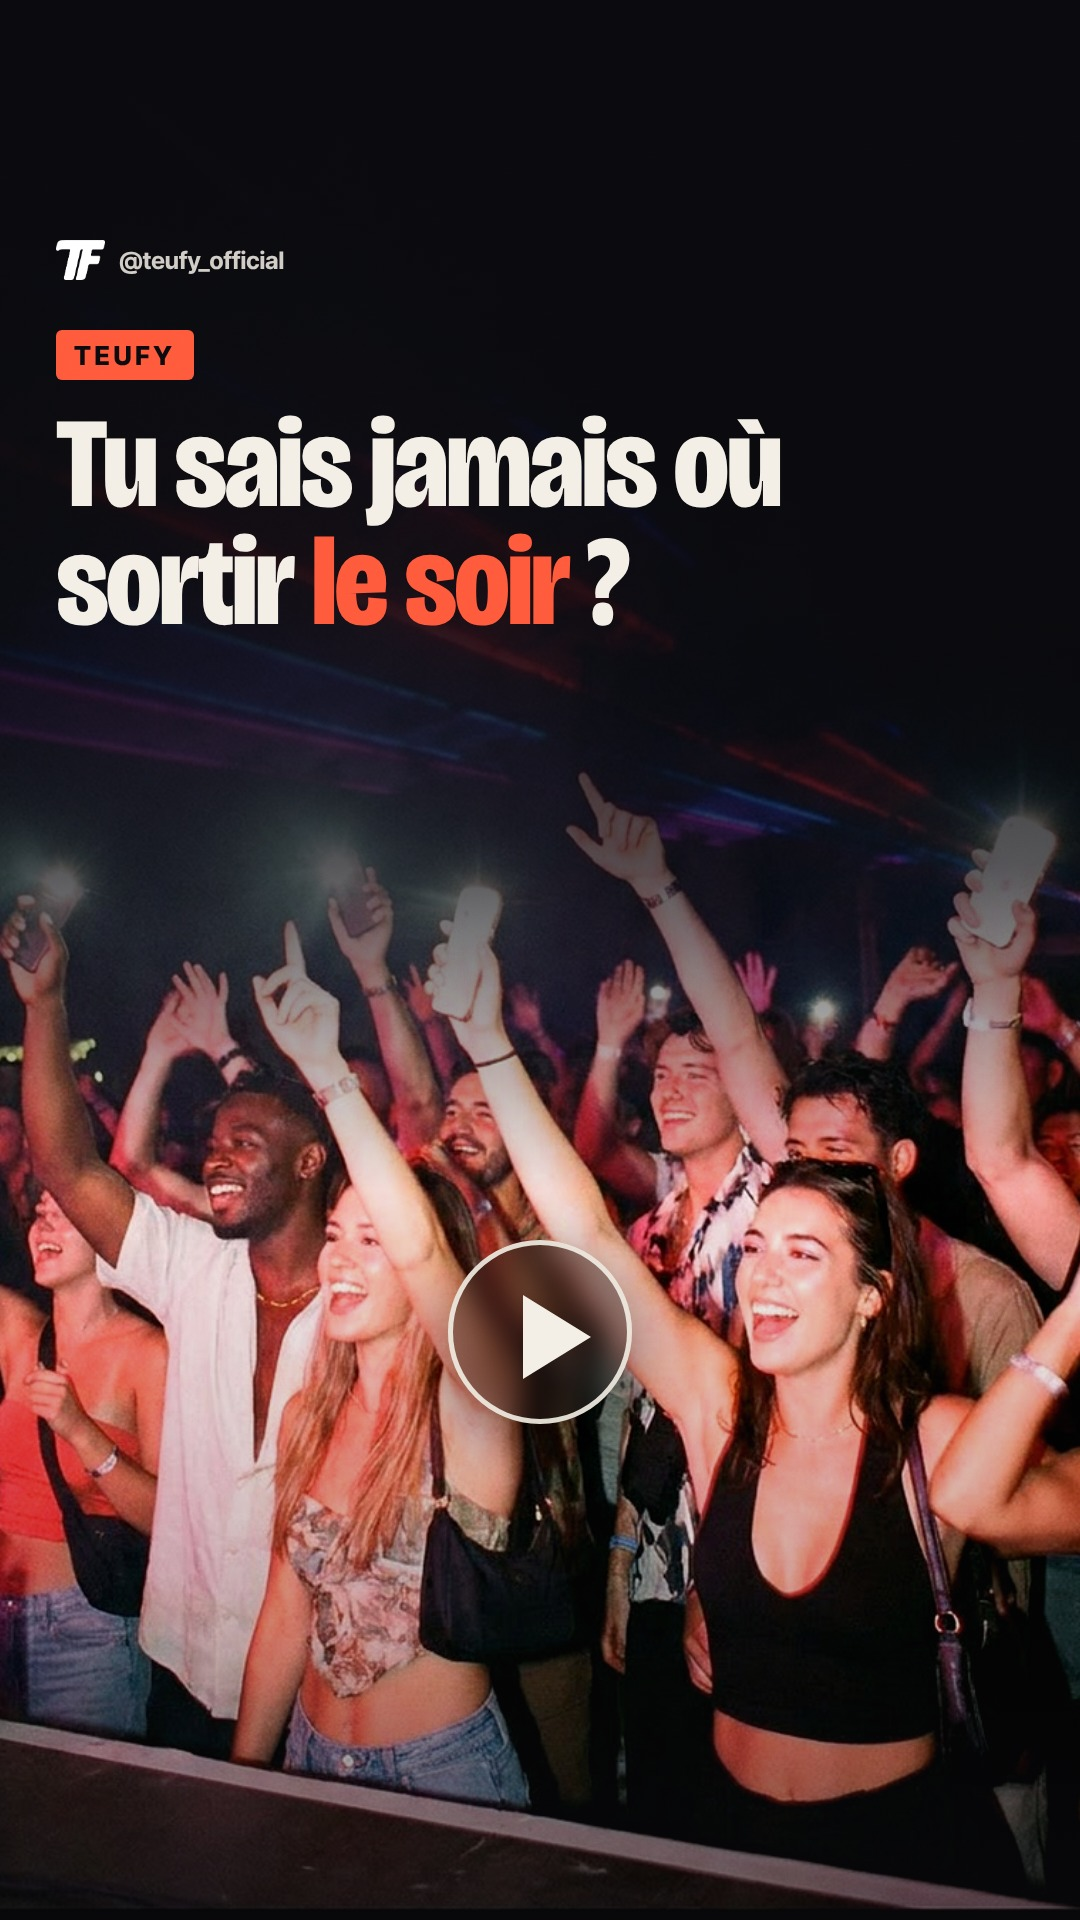
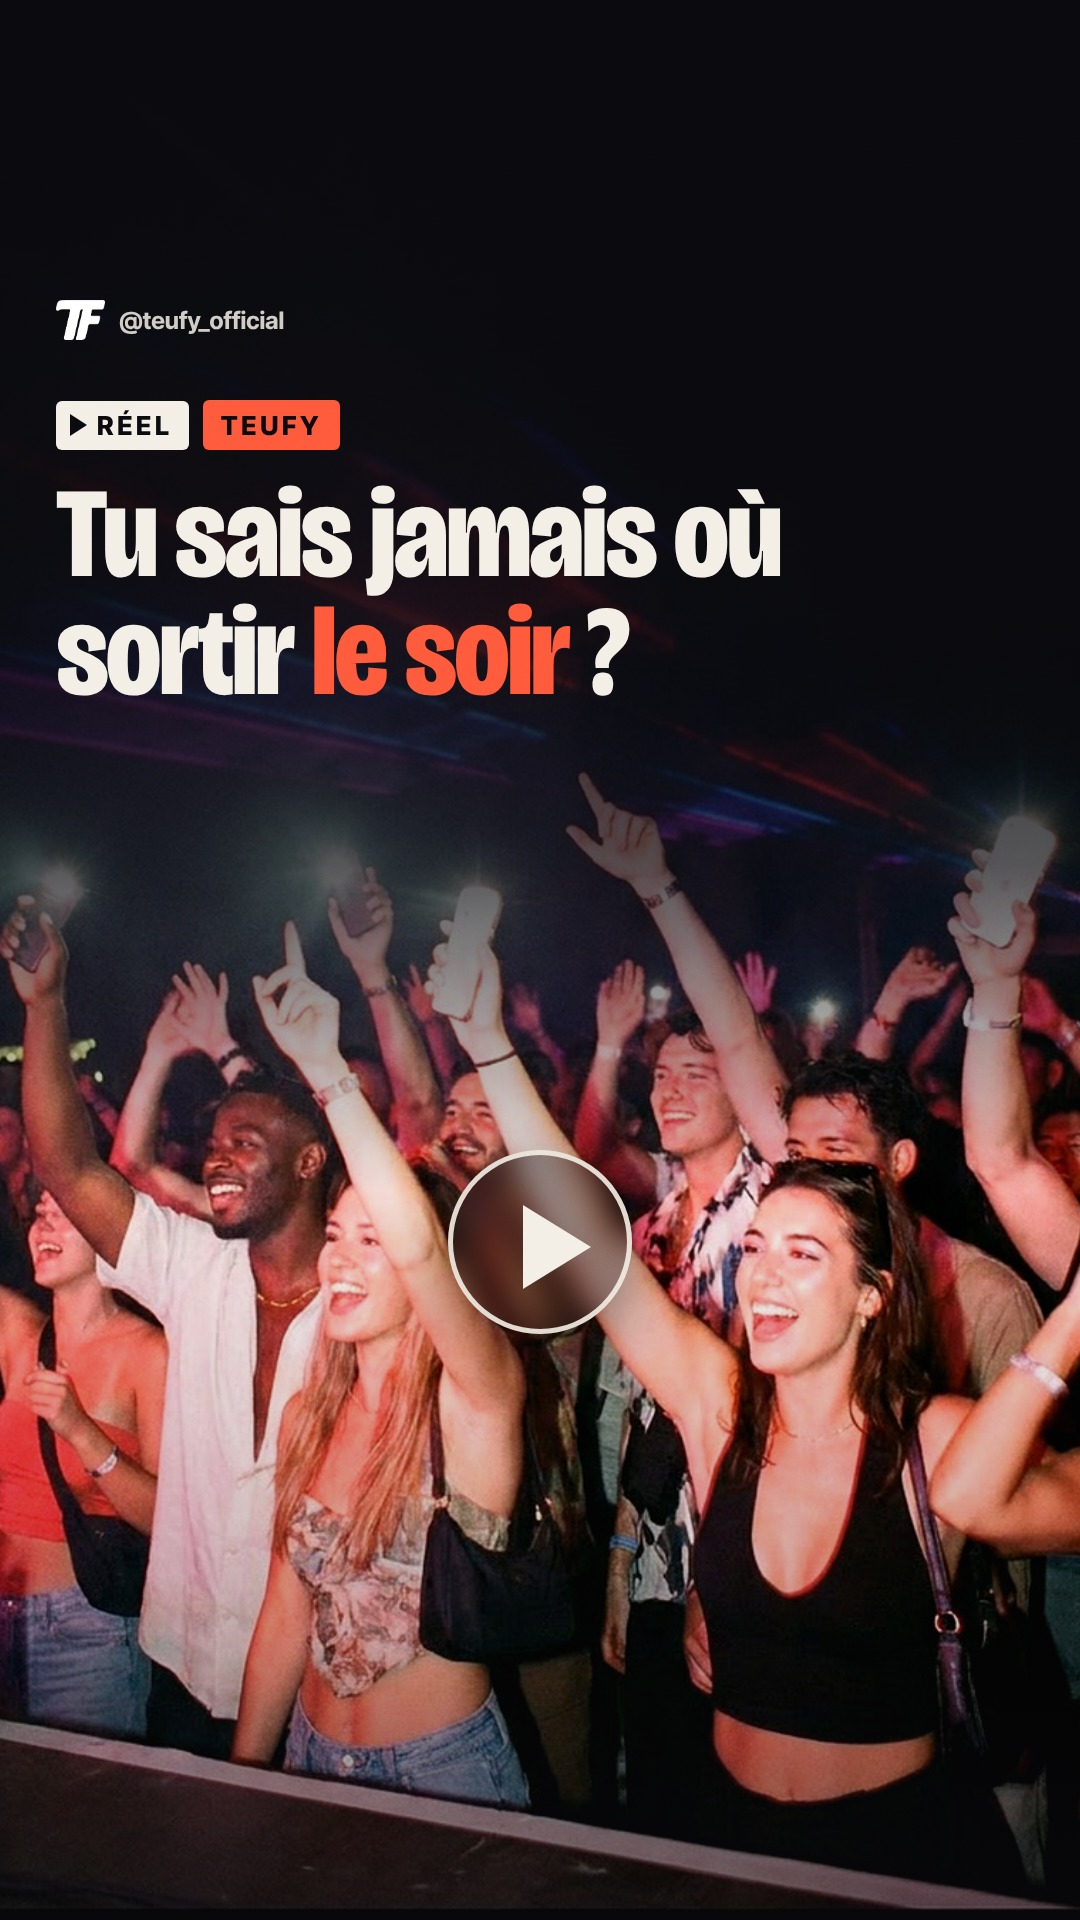
Version 1.14.01 : page Nouveautés (lien dans le menu avec pastille Nouveau, bandeau quand une version sort, cartes par version) ; couvertures adaptées à la grille du profil Instagram (recadrage 3:4, icône en haut à droite et nombre de vues en bas à gauche laissés libres), pastille RÉEL dans la ligne
Claude-Session: https://claude.ai/code/session_01UDWYmWuGkMKcV3nZgYu5nu

Changed region(s): [[0.0306, 0.125, 0.7333, 0.375], [0.3972, 0.5938, 0.6111, 0.75]]

diff --git a/studio/src/da/Posts.tsx b/studio/src/da/Posts.tsx
@@ -12,6 +12,9 @@ import type {Soiree} from '../posts/Affiches';
  *  triste et monotone »). Même DA (photos de nuit, Bricolage, nuit/crème/corail, étiquette), cinq compositions qui tournent
  *  dans la grille : jamais la même deux fois de suite (src/photos.mjs, choisirMise). */
 export type Mise = 'bas' | 'haut' | 'cadre' | 'bandeau' | 'centre';
+// Grille du profil Instagram (relevé sur capture du 20/11/2026) : vignettes en 3:4, nombre de vues en bas à gauche (≈ 10 % de
+// la hauteur), icône (carrousel, réel) en haut à droite (≈ 14 %). Rien d'important dans ces deux coins.
+const BAS_GRILLE = 150;
 
 /** Couverture générique (carrousel, débat, bon plan, actu, couverture de reel). */
 export const Couverture: React.FC<{photo?: string; position?: string; rubrique: string; titre: string; sous?: string; fond?: 'photo' | 'creme' | 'nuit'; grand?: string; vignettes?: string[]; glisse?: boolean; options?: string[]; mise?: Mise}> = ({photo, position, rubrique, titre, sous, fond = 'photo', grand, vignettes, glisse, options, mise = 'bas'}) => {
@@ -22,8 +25,8 @@ export const Couverture: React.FC<{photo?: string; position?: string; rubrique: 
   const centre = m === 'centre';
   const debat = !!options?.length;
   const long = titre.length > 50; // question de débat sur 4 lignes : photo plus courte
-  const hautCadre = debat ? (long ? 360 : 540) : 560; // hauteur de la photo encadrée
-  const hautBandeau = debat ? (long ? 500 : 700) : 760; // hauteur de la photo du bandeau
+  const hautCadre = debat ? (long ? 280 : 460) : 480; // hauteur de la photo encadrée
+  const hautBandeau = debat ? (long ? 420 : 620) : 680; // hauteur de la photo du bandeau
   const vign = vignettes?.length ? vignettes.slice(0, 3) : [];
   const petites = m === 'cadre' || m === 'bandeau';
   const pile = vign.length ? (
@@ -77,7 +80,7 @@ export const Couverture: React.FC<{photo?: string; position?: string; rubrique: 
       {m === 'haut' ? (
         <>
           <div style={{position: 'absolute', left: 56, right: 56, top: 150}}>{texte}</div>
-          {pile ? <div style={{position: 'absolute', right: 70, bottom: 70, display: 'flex', justifyContent: 'flex-end'}}>{pile}</div> : null}
+          {pile ? <div style={{position: 'absolute', right: 70, bottom: BAS_GRILLE, display: 'flex', justifyContent: 'flex-end'}}>{pile}</div> : null}
         </>
       ) : m === 'centre' ? (
         <div style={{position: 'absolute', left: 56, right: 56, top: 0, bottom: 0, display: 'flex', flexDirection: 'column', alignItems: 'center', justifyContent: 'center', textAlign: 'center', paddingTop: 60}}>
@@ -87,7 +90,8 @@ export const Couverture: React.FC<{photo?: string; position?: string; rubrique: 
       ) : (
         <>
           {pile && petites ? <div style={{position: 'absolute', right: 70, top: (m === 'cadre' ? 128 + hautCadre : hautBandeau) - 200}}>{pile}</div> : null}
-          <div style={{position: 'absolute', left: 56, right: 56, bottom: 64}}>
+          {/* bas : 150 px libres, Instagram y affiche le nombre de vues dans la grille du profil (20/11/2026) */}
+          <div style={{position: 'absolute', left: 56, right: 56, bottom: BAS_GRILLE}}>
             {pile && !petites ? <div style={{marginBottom: 40}}>{pile}</div> : null}
             {texte}
           </div>
@@ -249,11 +253,12 @@ const Lecture: React.FC<{top?: number}> = ({top = 700}) => (
     <div style={{position: 'absolute', left: 70, top: 50, width: 0, height: 0, borderTop: '42px solid transparent', borderBottom: '42px solid transparent', borderLeft: `68px solid ${C.creme}`}} />
   </div>
 );
-// Zone vue dans la grille (recadrage 4:5) : y 285 → 1635. Tout le texte et le bouton lecture y tiennent, quelle que soit la mise.
+// Zone vue dans la grille du profil (recadrage 3:4) : y 240 → 1680 ; Instagram y pose son icône en haut à droite et le nombre de
+// vues en bas à gauche : contenu entre y 300 et y 1500, coin haut droit libre (relevé du 20/11/2026).
 const MarqueReel: React.FC = () => (
-  <div data-verif="bloc" style={{display: 'flex', alignItems: 'center', gap: 14, background: C.corail, color: C.nuit, borderRadius: 999, padding: '12px 26px 12px 20px', boxShadow: '0 10px 30px rgba(0,0,0,.35)'}}>
-    <div style={{width: 0, height: 0, borderTop: '15px solid transparent', borderBottom: '15px solid transparent', borderLeft: `24px solid ${C.nuit}`}} />
-    <span style={{fontFamily: B, fontWeight: 800, fontSize: 34, letterSpacing: '0.12em'}}>RÉEL</span>
+  <div data-verif="bloc" style={{display: 'flex', alignItems: 'center', gap: 10, background: C.creme, color: C.nuit, borderRadius: 6, padding: '9px 16px 9px 14px'}}>
+    <div style={{width: 0, height: 0, borderTop: '11px solid transparent', borderBottom: '11px solid transparent', borderLeft: `17px solid ${C.nuit}`}} />
+    <span style={{fontFamily: B, fontWeight: 800, fontSize: 26, letterSpacing: '0.14em'}}>RÉEL</span>
   </div>
 );
 export const CouvertureReel: React.FC<{photo: string; position?: string; rubrique: string; titre: string; sous?: string; lecture?: boolean; mise?: Mise}> = ({photo, position, rubrique, titre, sous, lecture = true, mise = 'bas'}) => {
@@ -262,39 +267,42 @@ export const CouvertureReel: React.FC<{photo: string; position?: string; rubriqu
   const centre = mise === 'centre';
   const texte = (
     <>
-      <Etiquette style={{marginBottom: 26}} fond={papier ? C.nuit : C.corail} couleur={papier ? C.creme : C.nuit}>{rubrique}</Etiquette>
+      <div style={{display: 'flex', gap: 14, alignItems: 'center', justifyContent: centre ? 'center' : 'flex-start', marginBottom: 26}}>
+        <MarqueReel />
+        <Etiquette fond={papier ? C.nuit : C.corail} couleur={papier ? C.creme : C.nuit}>{rubrique}</Etiquette>
+      </div>
       <Titre taille={128} lignes={3} couleur={encre} style={centre ? {textAlign: 'center'} : undefined}>{titre}</Titre>
       {sous ? <Ajuste max={36} lignes={2} interligne={1.25} style={{fontFamily: B, fontWeight: 500, color: encre, opacity: 0.85, marginTop: 22, textAlign: centre ? 'center' : 'left'}}>{sous}</Ajuste> : null}
     </>
   );
   // position du bouton lecture selon la mise
-  const yLecture = {bas: 700, haut: 1240, cadre: 708, bandeau: 680, centre: 480}[mise];
+  const yLecture = {bas: 720, haut: 1150, cadre: 608, bandeau: 600, centre: 500}[mise];
   return (
     <AbsoluteFill style={{background: papier ? C.papier : C.nuit, overflow: 'hidden'}}>
       {mise === 'bas' ? <><Photo src={photo} position={position} /><AbsoluteFill style={{background: 'linear-gradient(180deg, rgba(11,11,15,.55) 0%, rgba(11,11,15,.2) 22%, rgba(11,11,15,0) 40%, rgba(11,11,15,.35) 58%, rgba(11,11,15,.92) 88%, rgba(11,11,15,.95) 100%)'}} /></> : null}
       {mise === 'haut' ? <><Photo src={photo} position={position} /><AbsoluteFill style={{background: 'linear-gradient(180deg, rgba(11,11,15,.95) 0%, rgba(11,11,15,.9) 30%, rgba(11,11,15,.7) 45%, rgba(11,11,15,.05) 62%, rgba(11,11,15,.2) 85%, rgba(11,11,15,.6) 100%)'}} /></> : null}
       {mise === 'centre' ? <><Photo src={photo} position={position} assombrir={0.55} /><AbsoluteFill style={{background: 'radial-gradient(ellipse at 50% 50%, rgba(11,11,15,.3) 0%, rgba(11,11,15,.85) 75%)'}} /></> : null}
       {mise === 'cadre' ? (
-        <div style={{position: 'absolute', left: 56, right: 56, top: 350, height: 900, borderRadius: 18, overflow: 'hidden', transform: 'rotate(-1.2deg)', boxShadow: '0 30px 70px rgba(11,11,15,.35)'}}>
+        <div style={{position: 'absolute', left: 56, right: 56, top: 400, height: 600, borderRadius: 18, overflow: 'hidden', transform: 'rotate(-1.2deg)', boxShadow: '0 30px 70px rgba(11,11,15,.35)'}}>
           <Photo src={photo} position={position} />
         </div>
       ) : null}
       {mise === 'bandeau' ? (
         <>
-          <div style={{position: 'absolute', left: 0, right: 0, top: 0, height: 1280, overflow: 'hidden'}}>
+          <div style={{position: 'absolute', left: 0, right: 0, top: 0, height: 1000, overflow: 'hidden'}}>
             <Photo src={photo} position={position} />
             <AbsoluteFill style={{background: 'linear-gradient(180deg, rgba(11,11,15,.55) 0%, rgba(11,11,15,0) 35%)'}} />
           </div>
-          <div style={{position: 'absolute', left: 0, right: 0, top: 1280, height: 10, background: C.corail}} />
+          <div style={{position: 'absolute', left: 0, right: 0, top: 1000, height: 10, background: C.corail}} />
         </>
       ) : null}
       {/* Marque « RÉEL » (19/11/2026, directeur : « on doit vite pouvoir différencier les réels des posts ») : pastille en
           haut à droite, toujours au même endroit, sur toutes les couvertures de reel (jamais sur un post). */}
-      <div style={{position: 'absolute', left: 0, right: 0, top: 240 - 48}}><Signature sombre={papier} droite={<MarqueReel />} /></div>
+      <div style={{position: 'absolute', left: 0, right: 0, top: 300 - 48}}><Signature sombre={papier} /></div>
       {lecture ? <Lecture top={yLecture} /> : null}
-      {mise === 'haut' ? <div style={{position: 'absolute', left: 56, right: 56, top: 330}}>{texte}</div>
-        : centre ? <div style={{position: 'absolute', left: 56, right: 56, top: 720, display: 'flex', flexDirection: 'column', alignItems: 'center', textAlign: 'center'}}>{texte}</div>
-        : <div style={{position: 'absolute', left: 56, right: 56, bottom: 1920 - 1680 + 64}}>{texte}</div>}
+      {mise === 'haut' ? <div style={{position: 'absolute', left: 56, right: 56, top: 400}}>{texte}</div>
+        : centre ? <div style={{position: 'absolute', left: 56, right: 56, top: 760, display: 'flex', flexDirection: 'column', alignItems: 'center', textAlign: 'center'}}>{texte}</div>
+        : <div style={{position: 'absolute', left: 56, right: 56, bottom: 1920 - 1500}}>{texte}</div>}
       <Grain o={papier ? 0.12 : 0.08} />
       <ControleVisuel />
     </AbsoluteFill>

diff --git a/site/style.css b/site/style.css
@@ -1813,3 +1813,14 @@ button.puce.actif{background:var(--creme);color:var(--nuit)}
 .signaler-adresse .form-contact{margin:0}
 @media (max-width:760px){.signaler-adresse{grid-template-columns:1fr}}
 .abo-aide{flex-basis:100%;font-size:14px;opacity:.85;margin:6px 0 0;max-width:680px}
+/* Page « Nouveautés » (20/11/2026) */
+.page-maj .maj{border:1px solid rgba(244,239,230,.14);border-radius:18px;padding:18px 20px;background:rgba(244,239,230,.04)}
+.page-maj .maj-derniere{border-color:var(--corail);box-shadow:0 0 0 1px var(--corail) inset}
+.page-maj .maj-tete{display:flex;flex-wrap:wrap;align-items:center;gap:10px;margin:0;font-size:14px;opacity:.9}
+.page-maj .maj-num{font-weight:800;letter-spacing:.04em;background:var(--creme);color:var(--nuit);padding:3px 10px;border-radius:999px}
+.page-maj .maj-neuf{font-weight:800;background:var(--corail);color:var(--nuit);padding:3px 10px;border-radius:999px;text-transform:uppercase;font-size:12px;letter-spacing:.08em}
+.page-maj .maj h2{margin:10px 0 6px;font-size:26px}
+.page-maj .maj ul{margin:0;padding-left:20px;display:flex;flex-direction:column;gap:6px}
+.page-maj details{margin-top:12px;font-size:14px;opacity:.85}
+.page-maj summary{cursor:pointer;font-weight:700}
+.page-maj details ul{margin-top:8px}

diff --git a/CLAUDE.md b/CLAUDE.md
@@ -58,6 +58,9 @@
   (jamais une image tirée de la vidéo, sauf panne, signalée dans le journal). Cinq mises en page de la DA tournent (`bas`, `haut`,
   `cadre`, `bandeau`, `centre` : `studio/src/da/Posts.tsx`, choix dans `src/photos.mjs` `choisirMise`) : jamais la même deux fois
   de suite, en plus de la règle des photos. Toute nouvelle mise est vérifiée à l'œil (texte long, débat, vignettes, reel).
+  Grille du profil (relevé du 20/11/2026) : vignettes recadrées en 3:4, icône Instagram en haut à droite, nombre de vues en bas
+  à gauche ; rien d'important dans ces coins (posts : 150 px libres en bas ; reels : contenu entre y 300 et y 1500 sur 1920).
+  Vérifier chaque nouvelle couverture dans les deux grilles (profil 3:4 et onglet Réels 9:16).
 - **Auto-contrôle permanent** (directeur, 19/11/2026 : « tout ce qui doit être publié doit être publié, tu dois contrôler que ça
   l'a été, et si ce n'est pas fait, tout faire jusqu'à ce que ce soit publié ; un ok ne suffit pas, vérifie que chaque étape a
   fonctionné complètement ») : chaque publication est relue sur Instagram après l'envoi (`verifierMedia`) ; `node src/run.mjs
